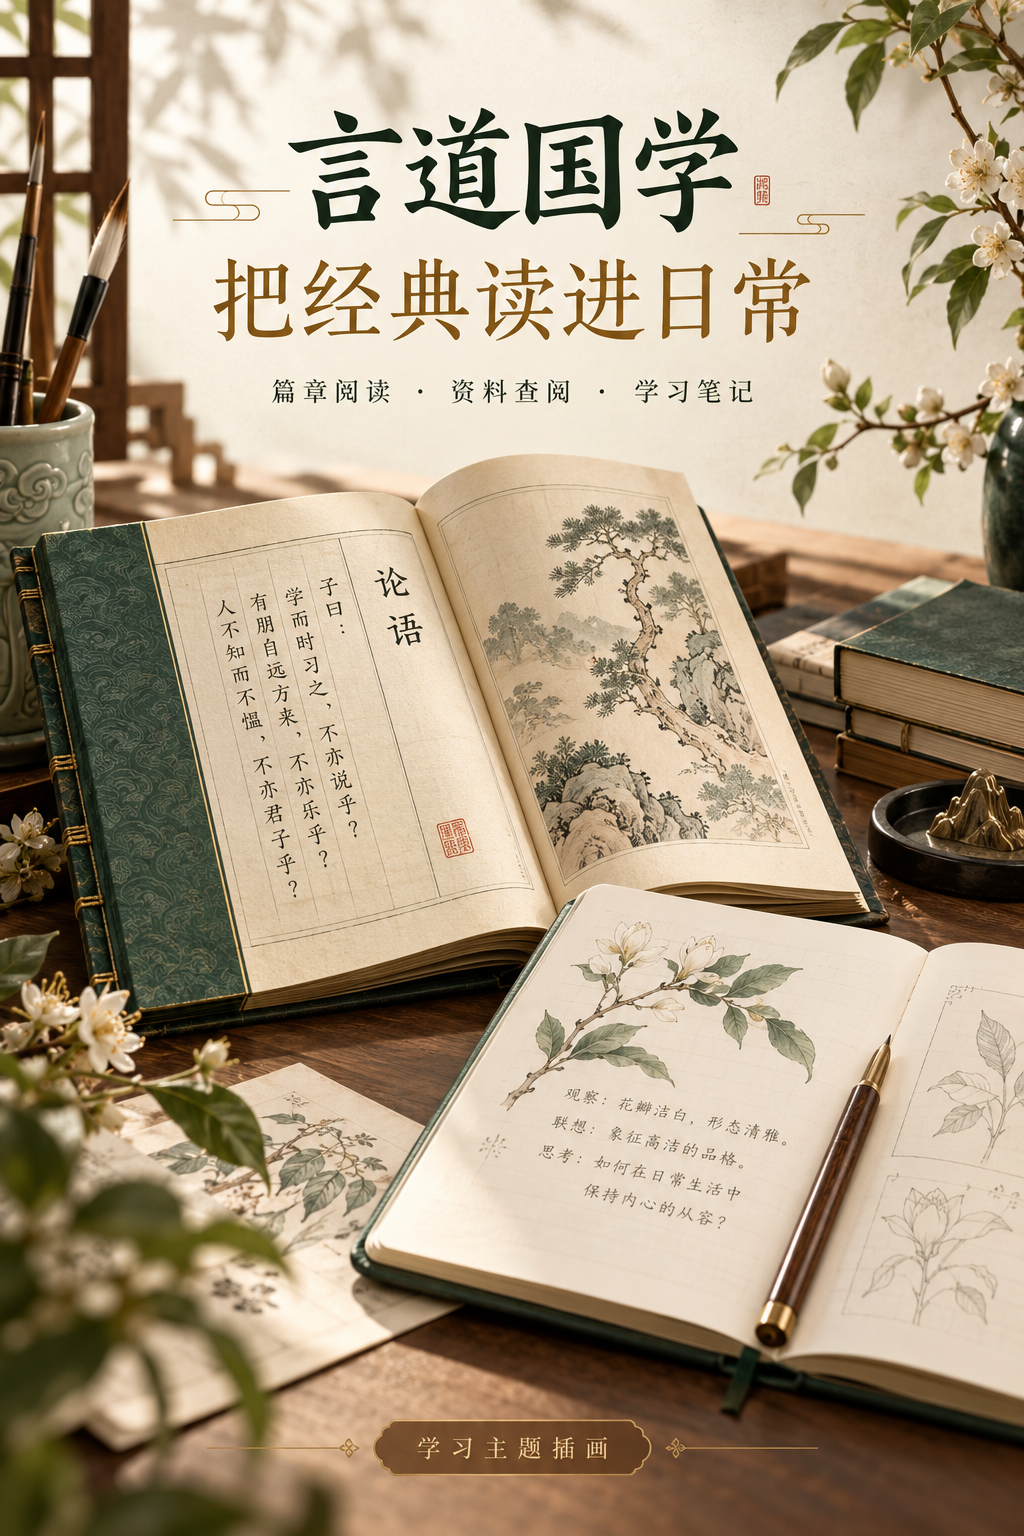
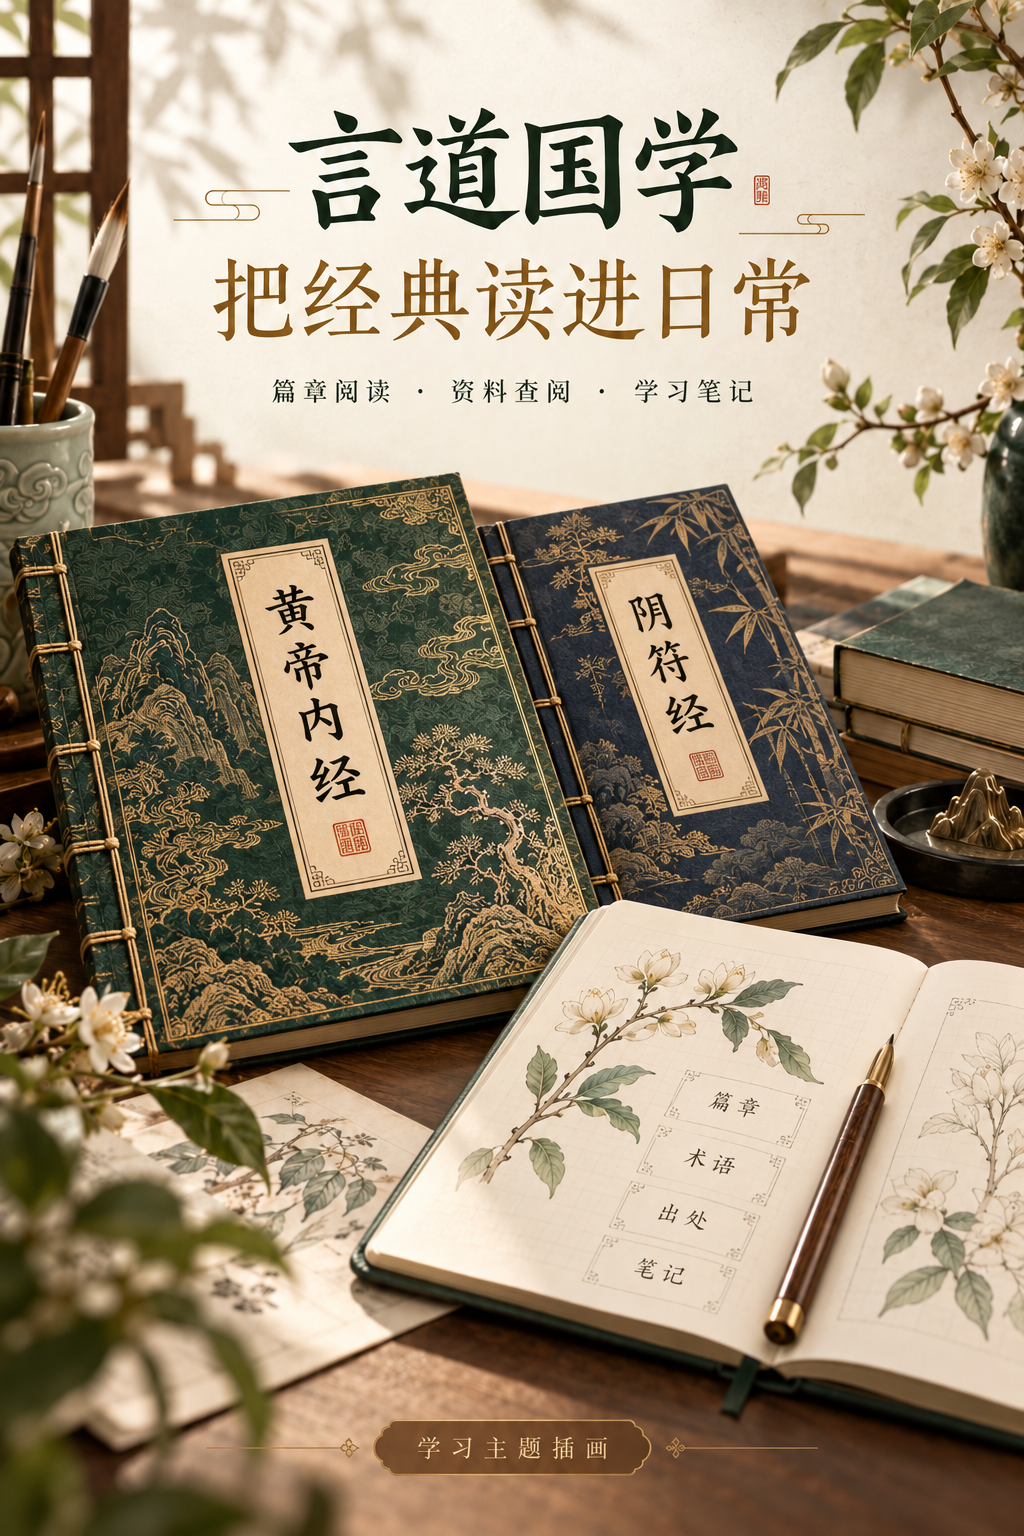
feat: polish authentic classic reading screens and focus campaign on Neijing and Yinfu

diff --git a/src/app/books/page.tsx b/src/app/books/page.tsx
@@ -7,6 +7,7 @@ import { ContinuousListenPlayer } from "@/components/ContinuousListenPlayer";
 import AIInterpretButton from "@/components/AIInterpretButton";
 import classicsData from "@/data/guoxueClassics.json";
 import { loadJsonPack } from "@/lib/offlinePackClient";
+import { classicReadingBlocks, isCompatibleGuoxuePack } from "@/lib/classicReading";
 
 const BRAND = "#7B2FBE";
 
@@ -33,9 +34,7 @@ export default function BooksPage() {
     const reload = async () => {
       const pack = await loadJsonPack<GuoxueClassicsPack>("guoxue-classics-approved");
       if (!active || !pack) return;
-      const fullTextPack = Array.isArray(pack.books)
-        && pack.books.length > 0
-        && pack.books.every((book) => book.completeness === "full" && book.sectionCount > 0);
+      const fullTextPack = isCompatibleGuoxuePack(pack);
       if (active && pack?.schema === "yandao.guoxue.classics.v1" && fullTextPack) {
         setCatalogue({ books: pack.books, notice: pack.notice || classicsData.notice, version: pack.version });
       }
@@ -117,17 +116,36 @@ export default function BooksPage() {
 }
 
 function BookReader({ book, onBack }: { book: GuoxueBook; onBack: () => void }) {
+  const blocks = useMemo(() => classicReadingBlocks(book.content), [book.content]);
+  const [fontSize, setFontSize] = useState(18), [bookmark, setBookmark] = useState(""), [message, setMessage] = useState("");
+  const bookmarkKey = `classic-reading-position-v1:${book.id}`;
+  useEffect(() => {
+    try { setBookmark(localStorage.getItem(bookmarkKey) || ""); } catch { setMessage("本机书签无法读取，正文仍可阅读。"); }
+  }, [bookmarkKey]);
+  const savePosition = () => {
+    const target = blocks.find(block => { const element = document.getElementById(block.id); return element && element.getBoundingClientRect().bottom > 90; });
+    if (!target) return;
+    try { localStorage.setItem(bookmarkKey, target.id); setBookmark(target.id); setMessage("已记住本机阅读位置。"); } catch { setMessage("书签保存失败，请先记下段落位置。"); }
+  };
   return (
-    <div className="min-h-screen bg-[#F7F5F2]" style={{ maxWidth: 520, margin: "0 auto" }}>
-      <header className="sticky top-0 z-20 flex items-center gap-3 border-b border-gray-100 bg-white px-3 py-3">
-        <button type="button" onClick={onBack} className="rounded-lg px-2 py-1 text-xl text-gray-600">‹</button>
+    <div className="min-h-screen bg-[#f5f1e8]" style={{ maxWidth: 520, margin: "0 auto" }}>
+      <header className="sticky top-0 z-20 flex items-center gap-3 border-b border-[#dce2d5] bg-[#fbf9f2] px-3 py-3" style={{ paddingTop: "max(12px, env(safe-area-inset-top))" }}>
+        <button type="button" aria-label="返回典籍目录" onClick={onBack} className="rounded-lg px-2 py-1 text-xl text-[#30483f]">‹</button>
         <div className="min-w-0">
           <h1 className="truncate text-sm font-bold text-gray-800">《{book.title}》</h1>
           <p className="text-[10px] text-gray-400">{book.author} · {book.category}</p>
         </div>
       </header>
       <main className="px-4 py-4">
-        <section className="mb-3 rounded-xl border border-gray-100 bg-white p-3">
+        <section className="mb-4 overflow-hidden rounded-2xl bg-[#244b40] px-5 py-6 text-[#fbf4dc]">
+          <p className="text-[11px] tracking-[0.2em] text-[#b6cbb7]">{book.category} · 典籍阅读</p>
+          <h2 className="mt-3 text-2xl font-semibold leading-relaxed" style={{ fontFamily: '"Noto Serif SC", "Songti SC", SimSun, serif' }}>《{book.title}》</h2>
+          <p className="mt-2 text-xs leading-6 text-[#d1ddca]">{book.author}</p>
+          <div className="mt-5 flex flex-wrap gap-2 text-[10px]"><span className="rounded-full border border-[#678577] px-2 py-1">原文阅读</span><span className="rounded-full border border-[#678577] px-2 py-1">连续听学</span><span className="rounded-full border border-[#678577] px-2 py-1">本机书签</span></div>
+        </section>
+        <div className="mb-3 flex flex-wrap items-center justify-between gap-2 rounded-xl bg-[#fffdf7] p-3 text-[#30483f]"><div className="flex items-center gap-2"><span className="text-xs">字号</span>{[16, 18, 22].map(size => <button key={size} type="button" aria-label={`字号${size}`} aria-pressed={fontSize === size} onClick={() => setFontSize(size)} className="rounded-lg border px-3 py-2 text-xs" style={{ background: fontSize === size ? "#e4ecdf" : "transparent" }}>{size === 16 ? "小" : size === 18 ? "中" : "大"}</button>)}</div><button type="button" onClick={savePosition} className="text-xs underline">记住位置</button>{bookmark && <button type="button" onClick={() => document.getElementById(bookmark)?.scrollIntoView({ block: "start", behavior: "smooth" })} className="text-xs underline">继续上次阅读</button>}</div>
+        {message && <p role="status" className="mb-3 text-xs text-[#2a6351]">{message}</p>}
+        <details className="mb-3 rounded-xl border border-[#dce2d5] bg-[#fffdf7] p-3"><summary className="cursor-pointer text-sm font-semibold text-[#30483f]">听学与原文辅助</summary><div className="mt-3">
           <LocalListenButton text={`${book.title}。${book.content}`} contentId={`guoxue:${book.id}`} />
           <ContinuousListenPlayer collectionId={`guoxue:${book.id}`} title="全书连续听学"
             items={[{ id: book.id, title: book.title, text: book.content }]} />
@@ -137,8 +155,8 @@ function BookReader({ book, onBack }: { book: GuoxueBook; onBack: () => void }) 
               buttonText="🤖 AI解读本书" cacheKey={`guoxue_interpret:${book.id}`} contextData={book.content.slice(0, 12000)}
               systemPrompt="你是国学古籍阅读助手。只能依据用户提供的古籍原文解释字词、句义、篇章结构与历史语境；不得虚构书名、篇名、页码或人物观点。明确区分原文、释义与学习提示，不把古代观念直接包装成现代事实。" />
           </div>
-        </section>
-        <article className="whitespace-pre-wrap rounded-2xl bg-white px-5 py-6 text-[17px] leading-9 text-gray-800 shadow-sm">{book.content}</article>
+        </div></details>
+        <article aria-label="典籍原文" className="rounded-2xl border border-[#e8e1d2] bg-[#fffdf7] px-5 py-6 text-[#273c33] shadow-sm" style={{ fontSize, lineHeight: 2.05, fontFamily: '"Noto Serif SC", "Songti SC", SimSun, serif' }}>{blocks.map(block => block.heading ? <h3 key={block.id} id={block.id} className="mb-4 mt-7 scroll-mt-24 border-l-2 border-[#b2975a] pl-3 text-lg font-bold">{block.text}</h3> : <p key={block.id} id={block.id} className="mb-5 scroll-mt-24 whitespace-pre-line text-justify">{block.text}</p>)}</article>
         <p className="my-4 text-center text-[10px] leading-5 text-gray-500">原文来源：<a href={book.sourceUrl} target="_blank" rel="noopener noreferrer" className="underline">{book.sourceName}</a> · {book.license}<br />来源记录 {book.sectionCount} 个文本区块，尚未逐字校勘。</p>
       </main>
     </div>

diff --git a/src/app/books/layout.tsx b/src/app/books/layout.tsx
@@ -2,8 +2,8 @@ import type { Metadata } from "next";
 import Link from "next/link";
 
 export const metadata: Metadata = {
-  title: "经典医籍阅读——中医经典著作书单",
-  description: "经典医籍阅读列表：整理《黄帝内经》《伤寒论》《金匮要略》《温病条辨》等中医经典著作，建议按序研读的入门书单与阅读指引，附原文查阅入口，适合中医自学者的典籍学习路线参考。",
+  title: "国学典籍原文阅读——阴符经与传统经典",
+  description: "国学典籍库：按书名和类别查阅阴符经等传统典籍，提供原文阅读、连续听学、字号调整和本机书签，另有黄帝内经等医籍学习入口。",
 };
 
 const READS: Array<[string, string, string]> = [
@@ -21,7 +21,7 @@ export default function BooksLayout({ children }: { children: React.ReactNode })
       {children}
       <section data-seo-nav style={{ maxWidth: "680px", margin: "0 auto", padding: "12px 16px 64px" }}>
         <div style={{ background: "#fff", borderRadius: 16, padding: 18, boxShadow: "0 1px 4px rgba(74,43,112,.06)" }}>
-          <h2 style={{ fontSize: 16, fontWeight: 700, color: "#2D1A3E", margin: "0 0 10px" }}>经典医籍阅读指引</h2>
+          <h2 style={{ fontSize: 16, fontWeight: 700, color: "#2D1A3E", margin: "0 0 10px" }}>经典阅读与中医延伸学习</h2>
           <p style={{ fontSize: 13, lineHeight: 1.9, color: "#6B5B80", margin: "0 0 8px" }}>经典医籍阅读列表：整理《黄帝内经》《伤寒论》《金匮要略》《温病条辨》等中医经典著作，建议按序研读的入门书单与阅读指引，附原文查阅入口，适合中医自学者的典籍学习路线参考。</p>
           <p style={{ fontSize: 13, lineHeight: 1.9, color: "#6B5B80", margin: 0 }}>中医自学建议从《中医基础理论》入门，再依次研读《黄帝内经》选篇与《伤寒论》，配合中药、方剂基础同步学习；本站典籍原文均支持分篇检索，阅读中遇到的名词可在中药库与经络穴位工具中即时查询。</p>
           <h3 style={{ fontSize: 14, fontWeight: 700, color: "#5E2293", margin: "14px 0 8px" }}>配套学习工具</h3>
@@ -32,10 +32,10 @@ export default function BooksLayout({ children }: { children: React.ReactNode })
             </p>
           ))}
           <h3 style={{ fontSize: 14, fontWeight: 700, color: "#5E2293", margin: "14px 0 8px" }}>常见问题</h3>
-          <p style={{ margin: "0 0 8px", fontSize: 12.5, lineHeight: 1.8, color: "#6B5B80" }}><strong style={{ color: "#2D1A3E" }}>典籍原文免费阅读吗？</strong>免费。22部经典医籍原文均可在线分篇阅读，支持检索与书签，无需会员。</p>
+          <p style={{ margin: "0 0 8px", fontSize: 12.5, lineHeight: 1.8, color: "#6B5B80" }}><strong style={{ color: "#2D1A3E" }}>典籍原文免费阅读吗？</strong>本页内置典籍可直接阅读，收录范围和出处以每部书的来源记录为准；字号与书签用于本机阅读。</p>
           <p style={{ margin: "0 0 8px", fontSize: 12.5, lineHeight: 1.8, color: "#6B5B80" }}><strong style={{ color: "#2D1A3E" }}>零基础从哪本书读起？</strong>建议先读《中医基础理论》类入门材料，再选《黄帝内经》选篇与《伤寒论》配合译注研读，遇到名词用中药库、方剂库随时查。</p>
           <p style={{ margin: 0, fontSize: 12.5, lineHeight: 1.8, color: "#6B5B80" }}><strong style={{ color: "#2D1A3E" }}>古文看不懂怎么办？</strong>典籍页面提供分篇浏览与关键词检索，可先用AI中医助手查询概念解释，再回到原文对照理解。</p>
-          <p style={{ margin: "10px 0 0", fontSize: 12, lineHeight: 1.8, color: "#6B5B80" }}>阅读进度与书签保存在个人账号下，支持多端同步；医学生在读原著的同时，可配合医考学习专区的章节练习检验理解程度。典籍版本以通行校注本为底本整理，如与纸本有出入请以纸本为准。</p>
+          <p style={{ margin: "10px 0 0", fontSize: 12, lineHeight: 1.8, color: "#6B5B80" }}>本页阅读书签与听学位置仅存本机，不与账号同步。每部书保留来源链接与许可说明，篇章范围核对不等于逐字校勘；释义和学习笔记应与古籍原文分别记录。</p>
         </div>
       </section>
     </>

diff --git a/src/app/academy/astronomy/page.tsx b/src/app/academy/astronomy/page.tsx
@@ -42,13 +42,14 @@ export default function AstronomyStudyPage() {
   return <div className="mx-auto max-w-3xl bg-[#081827] px-4 py-5 text-[#e6edf5]">
     <Link href="/academy" className="text-sm text-[#a7cadb]">‹ 返回学堂</Link>
     <header className="my-5"><p className="text-xs tracking-widest text-[#8ed3ce]">观察 · 理解 · 记录</p><h1 className="mt-2 text-3xl font-bold">天文馆</h1><p className="mt-3 text-sm leading-7 text-[#b9cbd8]">把时间与地点放进天空。认识日月行星的位置，再回到传统历法，理解古人如何观察时序。</p></header>
-    <form onSubmit={event => { event.preventDefault(); update(); }} className="rounded-2xl border border-[#294251] bg-[#102433] p-4">
-      <label className="block text-sm">观测时间（北京时间 UTC+8）<input aria-label="观测时间" type="datetime-local" min="1900-01-01T00:00" max="2100-12-31T23:59" value={time} onChange={event => setTime(event.target.value)} className="mt-2 block w-full min-w-0 rounded-lg border border-[#3e5d70] bg-[#081827] p-3 text-white [color-scheme:dark]" /></label>
+    <details className="rounded-2xl border border-[#294251] bg-[#102433] p-4"><summary className="cursor-pointer text-sm font-semibold text-[#9cddd4]">调整观测时间与地点</summary>
+    <form onSubmit={event => { event.preventDefault(); update(); }} className="mt-4">
+      <label className="block text-sm">观测时间（北京时间 UTC+8）<input aria-label="观测时间" type="datetime-local" min="1900-01-01T00:00" max="2100-12-31T23:59" value={time} onInput={event => setTime(event.currentTarget.value)} onChange={event => setTime(event.target.value)} className="mt-2 block w-full min-w-0 rounded-lg border border-[#3e5d70] bg-[#081827] p-3 text-white [color-scheme:dark]" /></label>
       <div className="my-3 flex flex-wrap gap-2">{LOCATIONS.map(location => <button type="button" key={location.name} onClick={() => { setLatitude(String(location.lat)); setLongitude(String(location.lon)); }} className="rounded-full border border-[#3e5d70] px-3 py-2 text-xs">{location.name}</button>)}</div>
       <div className="grid grid-cols-2 gap-3"><label className="text-xs">北纬为正、南纬为负<input aria-label="纬度" type="number" step="any" min="-90" max="90" value={latitude} onChange={event => setLatitude(event.target.value)} className="mt-2 w-full rounded-lg bg-[#081827] p-3" required /></label><label className="text-xs">东经为正、西经为负<input aria-label="经度" type="number" step="any" min="-180" max="180" value={longitude} onChange={event => setLongitude(event.target.value)} className="mt-2 w-full rounded-lg bg-[#081827] p-3" required /></label></div>
       <div className="mt-4 flex flex-wrap gap-2"><button type="submit" className="rounded-lg bg-[#9cddd4] px-4 py-3 text-sm font-bold text-[#102433]">更新观测图</button><button type="button" onClick={() => update(chinaTimeInput(new Date()))} className="rounded-lg border border-[#3e5d70] px-4 py-3 text-sm">回到现在</button></div>
       <p className="mt-3 text-xs text-[#9eb5c6]">地点由你选择，计算在设备内完成，不申请定位权限。</p>{error && <p role="alert" className="mt-3 text-sm text-[#ffb0a6]">{error} 图中仍为上次有效输入。</p>}
-    </form>
+    </form></details>
     <section aria-label="日月行星观测图" className="mt-4 rounded-2xl border border-[#294251] p-4">
       <h2 className="text-lg font-bold">仰望天空</h2><p className="mt-2 text-xs leading-6 text-[#9eb5c6]">{formatChinaTime(parseChinaTime(applied.time))} · 北纬{applied.lat}° · 东经{applied.lon}°。中心为天顶，圆周为地平线，面向天空时东在左。这里只绘出地平线上方的日月行星，不是完整恒星星图。</p>
       <svg viewBox="0 0 360 360" role="img" aria-label="天顶投影，北在上东在左；天体数值见下方列表" className="mx-auto w-full max-w-md">

diff --git a/src/lib/classicReading.ts b/src/lib/classicReading.ts
@@ -1,0 +1,28 @@
+export function classicReadingBlocks(content: string) {
+  return content.split(/\n\s*\n/).map(text => text.trim()).filter(Boolean).map((text, index) => ({
+    id: `reading-block-${index}`, text,
+    heading: text.length < 40 && !/[。！？：；]/.test(text) && /[卷篇章节][上中下甲乙丙丁一二三四五六七八九十百\d]*$/.test(text),
+  }));
+}
+
+/** A data-only compatible pack; completeness labels alone do not validate content. */
+export function isCompatibleGuoxuePack(value: unknown): boolean {
+  if (!value || typeof value !== "object") return false;
+  const pack = value as Record<string, unknown>;
+  if (pack.schema !== "yandao.guoxue.classics.v1" || typeof pack.version !== "string" || !Array.isArray(pack.books) || pack.books.length < 1 || pack.books.length > 200) return false;
+  const ids = new Set<string>();
+  let characters = 0;
+  for (const candidate of pack.books) {
+    if (!candidate || typeof candidate !== "object") return false;
+    const book = candidate as Record<string, unknown>;
+    if (!["id", "title", "category", "author", "content", "sourceName", "sourceUrl", "license"].every(key => typeof book[key] === "string" && (book[key] as string).trim().length > 0)) return false;
+    if (!/^[a-zA-Z0-9_-]{1,100}$/.test(book.id as string) || ids.has(book.id as string)) return false;
+    if (book.completeness !== "full" || !Number.isInteger(book.sectionCount) || Number(book.sectionCount) < 1) return false;
+    if (typeof book.verifiedAt !== "string" || !/^\d{4}-\d{2}-\d{2}$/.test(book.verifiedAt)) return false;
+    try { const url = new URL(book.sourceUrl as string); if (url.protocol !== "https:" || url.username || url.password) return false; } catch { return false; }
+    characters += (book.content as string).length;
+    if (characters > 12000000) return false;
+    ids.add(book.id as string);
+  }
+  return true;
+}

diff --git a/scripts/classic-reading.test.ts b/scripts/classic-reading.test.ts
@@ -1,0 +1,29 @@
+import test from "node:test";
+import assert from "node:assert/strict";
+import classics from "../src/data/guoxueClassics.json";
+import { classicReadingBlocks, isCompatibleGuoxuePack } from "../src/lib/classicReading";
+
+test("reader paragraph layout preserves every non-whitespace character in all bundled editions", () => {
+  for (const book of classics.books) {
+    const blocks = classicReadingBlocks(book.content);
+    assert.ok(blocks.length);
+    assert.equal(blocks.map(block => block.text).join("").replace(/\s/g, ""), book.content.replace(/\s/g, ""), book.id);
+    assert.equal(new Set(blocks.map(block => block.id)).size, blocks.length);
+  }
+  const yinfu = classics.books.find(book => book.id === "huangdi_yinfujing")!;
+  assert.equal(classicReadingBlocks(yinfu.content).filter(block => block.heading).length, 3);
+});
+
+test("remote content packs require actual compatible full-text records, unique IDs and source fields", () => {
+  const pack = { schema: "yandao.guoxue.classics.v1", version: "test", books: classics.books };
+  assert.equal(isCompatibleGuoxuePack(pack), true);
+  const book = classics.books[0];
+  for (const broken of [
+    { ...pack, schema: "remote-code-v2" }, { ...pack, books: [] },
+    { ...pack, books: [{ ...book, content: null }] },
+    { ...pack, books: [{ ...book, completeness: "excerpt" }] },
+    { ...pack, books: [{ ...book, sourceUrl: "javascript:alert(1)" }] },
+    { ...pack, books: [{ ...book, sourceUrl: "https://user:password@example.com/source" }] },
+    { ...pack, books: [book, book] },
+  ]) assert.equal(isCompatibleGuoxuePack(broken), false);
+});

diff --git a/src/components/LearningEntryPanel.tsx b/src/components/LearningEntryPanel.tsx
@@ -20,6 +20,8 @@ export default function LearningEntryPanel() {
         {ENTRIES.map((entry) => <Link key={entry.href} href={entry.href} className="rounded-xl bg-[#f1f7f4] p-3"><span className="block text-sm font-semibold text-gray-800">{entry.label}</span><span className="mt-1 block text-[11px] text-gray-500">{entry.detail}</span></Link>)}
       </div>
       <div className="mt-3 flex flex-wrap gap-2 text-xs text-[#5c3677]">
+        <Link href="/books?book=huangdi_yinfujing" className="rounded-lg bg-[#f5f0f8] px-3 py-2">阴符经原文</Link>
+        <Link href="/zhongyi/classic?book=suwen-original" className="rounded-lg bg-[#f5f0f8] px-3 py-2">黄帝内经·素问</Link>
         <Link href="/academy/learn?track=zhongyi" className="rounded-lg bg-[#f5f0f8] px-3 py-2">进阶知识点</Link>
         <Link href="/academy/question-bank?track=zhongyi" className="rounded-lg bg-[#f5f0f8] px-3 py-2">章节题库</Link>
         <Link href="/academy/wrong-book" className="rounded-lg bg-[#f5f0f8] px-3 py-2">账号错题本</Link>
